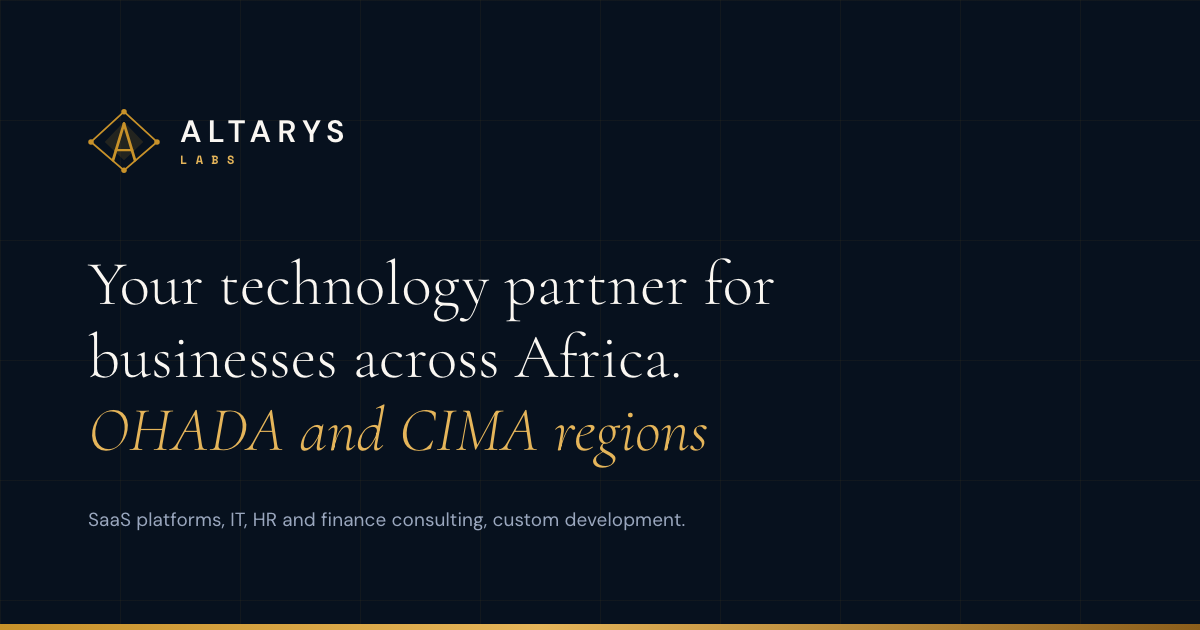
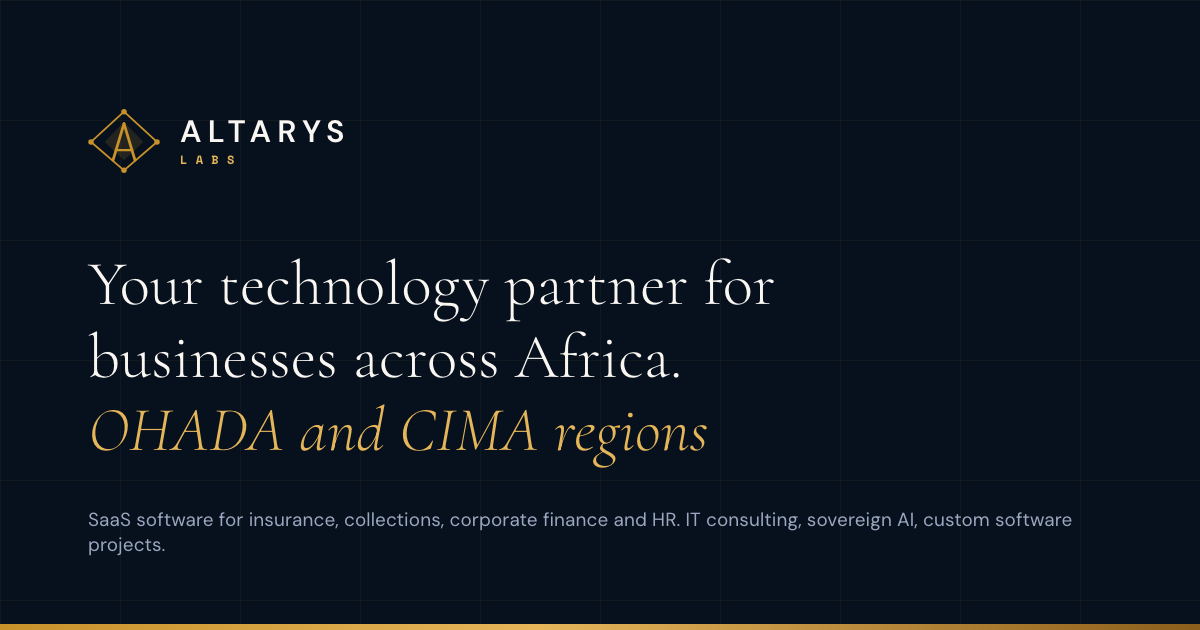
fix(i18n): traiter les constats de la ronde 1 (I18N-FIX-002)
Le commentaire d'en-tete de `en.ts` a livre deux versions fausses, les deux
fois dans la clause qui enumere les pages developpant OHADA et CIMA. La
troisieme version n'enumere plus rien : elle enonce la regle, les surfaces
exemptees pour la place, et la commande qui mesure la couverture. Aucun
build ne lit un commentaire, donc une affirmation de couverture pourrit
sans surveillance ; retirer l'enumeration retire la classe.

Mesure sur `dist/en` au HEAD, `<head>` separe du corps : quatre pages
developpent la forme maison dans leur corps, PCS la porte trois fois dans
son `<head>` et zero fois dans son corps. La recette prescrite couvre
desormais les deux moities de la formule, le grep a un marqueur ayant
manque PCS d'un cote et la fiche RH de l'autre.

Corrige aussi les huit constats importants : la promesse generale de la
ligne 10, la liste d'exemptions qui omettait `pageTagline.*` et les
`meta.*.description`, le compte de 26 pages anglaises la ou il y en a 13
dans D075 et dans le work item, et la citation de D075 par SITE-FIX-009,
qu'elle n'autorisait pas.

Deux taglines retrouvent le mot que la ronde precedente avait perdu.
`pageTagline.productsPcs` elargit au recouvrement d'echeances de credit
sur decision du fondateur : la navigation anglaise devance donc la fiche
PCS, et PAGE-003 refermera l'ecart. `home.ogSubtitle` est reecrit dans les
deux langues et les deux vignettes sont regenerees par `bin/og_images`.
[…]

Changed region(s): [[0.0617, 0.8143, 0.8942, 0.8746]]

diff --git a/src/i18n/en.ts b/src/i18n/en.ts
@@ -7,20 +7,29 @@ import type { Dictionary } from './fr';
  * audiences that the French version does not: anglophone African markets,
  * international investors and partners, and institutional funders and NGOs.
  *
- * Practical consequences, applied consistently across every English string:
+ * Practical consequences:
  *  - OHADA and CIMA are expanded in body copy wherever a page argues the
  *    regulatory point, because the acronyms carry no meaning for a reader in
  *    Accra, Lagos or Nairobi. The house form is "the OHADA business-law zone
- *    and the CIMA insurance zone". It is used today on the home page, the
- *    products hub, the HR and PCS product pages, and About.
- *    The bare acronyms are used where the expansion does not fit: `meta.*.title`
- *    values, which search engines truncate around 60 characters; page `h1`s,
- *    where it would wrap to a third line; and `footer.tagline`, which sits in a
- *    280px column.
- *    Known gap, measured rather than assumed: the three services pages, Contact
- *    and the two legal pages carry the bare acronyms in their footer and expand
- *    them nowhere. Verify with a grep for "business-law zone" over `dist/en`
- *    before claiming otherwise.
+ *    and the CIMA insurance zone".
+ *    Some surfaces keep the bare acronyms, for room rather than by preference,
+ *    and the constraint is structural in each case: `meta.*.title`, truncated by
+ *    search engines around 60 characters; page `h1`s, where the expansion wraps
+ *    to a third line; `footer.tagline` and `pageTagline.*`, both laid out in a
+ *    narrow column; and `meta.*.description`, where it crowds out the sentence
+ *    that earns the click.
+ *    NOT EVERY PAGE EXPANDS THEM, AND THIS COMMENT DOES NOT SAY WHICH DO. Any
+ *    statement of coverage decays the next time a page gains or loses the
+ *    phrase, and no build step reads a comment. Two earlier versions of these
+ *    lines asserted a coverage and both shipped false. Measure instead:
+ *      grep -rl "business-law zone" dist/en --include=index.html
+ *      grep -rl "insurance zone"    dist/en --include=index.html
+ *    Run BOTH. The two halves do not travel together: when this paragraph was
+ *    written the first returned the HR page and not PCS, and the second
+ *    returned PCS and not HR. A single-marker grep is what let the false claim
+ *    through twice. It also matches the `<head>`, so exclude it before
+ *    concluding anything about body copy. Per D075, the sweep itself is
+ *    verified key by key against `fr.ts`, never by grepping markers.
  *  - Emphasis shifts to what travels across borders (offline-first design,
  *    multi-country deployment, configurable compliance) rather than to
  *    Ivorian-specific schemes such as CNPS or ITS.
@@ -75,8 +84,8 @@ export const en: Dictionary = {
     home: '',
     products: '',
     productsHr: 'OHADA-compliant HR and payroll SaaS',
-    productsFinance: 'Budgeting aligned with the SYSCOHADA standard',
-    productsPcs: 'Premium collection in the CIMA zone',
+    productsFinance: 'Budgeting aligned with the SYSCOHADA accounting standard',
+    productsPcs: 'Premium and instalment collection in the CIMA zone',
     services: '',
     servicesConsulting: 'Information systems, HR and financial management',
     servicesDev: 'Web and mobile applications, and systems integration',
@@ -124,7 +133,8 @@ export const en: Dictionary = {
     heroSecondary: 'Explore our products',
 
     /* Voir le commentaire de `ogSubtitle` dans fr.ts. */
-    ogSubtitle: 'SaaS platforms, IT, HR and finance consulting, custom development.',
+    ogSubtitle:
+      'SaaS software for insurance, collections, corporate finance and HR. IT consulting, sovereign AI, custom software projects.',
 
     productsLabel: 'Our products',
     productsTitle: 'Three SaaS suites designed for OHADA and CIMA regulatory realities',

diff --git a/src/i18n/fr.ts b/src/i18n/fr.ts
@@ -114,7 +114,8 @@ export const fr = {
        Il vit ici et non dans le gabarit du script pour la meme raison que le
        titre : une vignette ne doit pas pouvoir affirmer ce que le site ne dit
        pas. C'est le defaut trouve par la ronde 2 d'UI-004. Voir D101. */
-    ogSubtitle: 'Suites SaaS, conseil IT, RH et Finance, développement sur mesure.',
+    ogSubtitle:
+      'Logiciels SaaS en Assurance, Recouvrement, Corporate Finance et RH, Conseil IT, IA souveraine, projets logiciels sur mesure',
 
     productsLabel: 'Nos produits',
     productsTitle: "Trois suites SaaS pensées pour l'OHADA et le CIMA",

diff --git a/docs/DECISIONS.md b/docs/DECISIONS.md
@@ -91,7 +91,7 @@ Nomenclature, work item types and prefixes: see `docs/AI_Development_Workflow.md
 | D072 | 2026-08-07 | I18N-FIX-001 | `meta.home.*` is split deliberately: the two **titles** carry the OHADA and CIMA zones, the two **descriptions** carry the founder's own new formulation, which names "Afrique de l'Ouest et Centrale" in French and "West and Central Africa" in English. FR title becomes `ALTARYS LABS \| Partenaire technologique des entreprises OHADA et CIMA`, EN title `ALTARYS LABS \| Technology partner in the OHADA and CIMA regions`. FR description is the founder's sentence verbatim, corrected for a duplicated "les" and for the missing accent on the capital of "Éditeur"; EN is its re-adaptation | Founder ruling of 2026-08-07, taken with the consequence stated in front of him: the home page now names the regulatory zones in its title and the geographic region in its description. **That asymmetry is intentional and must not be "fixed".** The zones and the region overlap heavily but are not the same territory, and the founder judged the description the right place to speak the geography a donor or an investor recognises, the title the right place to speak the regulatory perimeter that qualifies the offer. The R1 review had blocked on this pair as one defect; it is resolved as two deliberate registers | Aligning both on OHADA and CIMA, which the reviewer recommended and which the founder declined for the descriptions; naming both zone and region in the same sentence, rejected as pushing the description past 220 characters when 155 already display |
 | D073 | 2026-08-07 | I18N-FIX-001 | `footer.tagline` states what the company **is** rather than repeating what the hero promises: `Éditeur de logiciels et expertise conseil, zones OHADA et CIMA.` and `Software publisher and consulting practice, OHADA and CIMA regions.` This closes D063 | The obvious correction, copying the hero into the footer, removes the contradiction and creates a duplicate: the same sentence twice per page, 26 times. A footer sits above the legal line and is where a reader looks for what the entity is, so naming the two businesses, publishing and consulting, adds information the hero and the four link columns never give. "expertise conseil" rather than "cabinet de conseil" because the site already uses that phrasing on the home page | Mirroring the hero, rejected as trading a contradiction for a repetition; a reformulated positioning line, rejected as saying the same thing as the hero in different words, which is the same waste one degree less visible |
 | D074 | 2026-08-07 | D042 (annotated) | `home.heroTitle` keeps its capital in "les entreprises Africaines". The spelling is **known, deliberate and must not be corrected** by any future session or review round | French grammar puts a lower-case letter on the adjective ("les entreprises africaines", exactly as "les entreprises françaises") and reserves the capital for the noun ("les Africains", "les Français"). The rule was put to the founder with that parallel spelled out, and he chose to keep the capital as deliberate emphasis. This row exists because the string sits in the home page `h1`, the most read line of the site: without it, every competent reviewer will re-open the point, and one of them will eventually "fix" it. D042 is annotated rather than rewritten, per the standing rule | Writing `africaines` in lower case, which is what the grammar prescribes and what the R1 review recommended; leaving the capital unrecorded, which guarantees the debate is re-run |
-| D075 | 2026-08-07 | I18N-FIX-001 | The residual-string defect is treated as **one family swept exhaustively**, not as the blockers a review raised: **fourteen dictionary values, one stale component comment and the `en.ts` header comment**, counted from the diff rather than asserted. **The sweep is verified by comparing the two dictionaries key by key, not by grepping markers.** Round 1 was swept with a four-marker grep (`West and Central Africa`, `African markets`, the old positioning nouns, the old service spelling); round 2 found that grep had walked straight past `Central and West Africa`, the same words in the other order, live in the header dropdown of all 26 English pages, and past two siblings beside it. A marker list only ever finds the phrasings its author already thought of. The Open Graph thumbnails and the `REVIEWER.md` contradictions leave for `SEO-FIX-001` and `SITE-FIX-007` | `I18N-001` fixed the heroes and stopped at the footer, so the R1 review found the same sentence still alive in `meta.home.*` and burnt into two PNGs. Fixing only what a review listed reproduces the defect one level further out, which is exactly how this one survived. The two follow-ups are split off because they are different materials, not lower priority: a PNG needs regenerating against the final copy, and `REVIEWER.md` is tooling whose defect (it mandates "Services first, Products second" against `CLAUDE.md`) makes reviewers raise false blockers on correct pages | Fixing only the two blockers the review raised; folding the thumbnails into this item, rejected since they must carry copy this same PR is still settling |
+| D075 | 2026-08-07 | I18N-FIX-001 | The residual-string defect is treated as **one family swept exhaustively**, not as the blockers a review raised: **fourteen dictionary values, one stale component comment and the `en.ts` header comment**, counted from the diff rather than asserted. **The sweep is verified by comparing the two dictionaries key by key, not by grepping markers.** Round 1 was swept with a four-marker grep (`West and Central Africa`, `African markets`, the old positioning nouns, the old service spelling); round 2 found that grep had walked straight past `Central and West Africa`, the same words in the other order, live in the header dropdown of all **13** English pages, and past two siblings beside it. A marker list only ever finds the phrasings its author already thought of. The Open Graph thumbnails and the `REVIEWER.md` contradictions leave for `SEO-FIX-001` and `SITE-FIX-007` | `I18N-001` fixed the heroes and stopped at the footer, so the R1 review found the same sentence still alive in `meta.home.*` and burnt into two PNGs. Fixing only what a review listed reproduces the defect one level further out, which is exactly how this one survived. The two follow-ups are split off because they are different materials, not lower priority: a PNG needs regenerating against the final copy, and `REVIEWER.md` is tooling whose defect (it mandates "Services first, Products second" against `CLAUDE.md`) makes reviewers raise false blockers on correct pages | Fixing only the two blockers the review raised; folding the thumbnails into this item, rejected since they must carry copy this same PR is still settling |
 | D076 | 2026-08-07 | UI-003 | The site publishes contact details for the first time: `contact@altaryslabs.com` and `+225 07 20 52 22 69`. Both live in `src/i18n/config.ts` as `CONTACT_EMAIL` and `CONTACT_PHONE`, not in the dictionaries, and the `tel:` href is derived from the number by stripping spaces | They are the same string in both languages, so putting them in `fr.ts` and `en.ts` would create two copies of one fact that can drift. This is the reasoning D027 already applied to the RCCM, which is why the About page composes its legal line from `footer` rather than owning a second copy. Only the labels that introduce them are translated. Deriving the `tel:` means the dialled number cannot contradict the displayed one | Two dictionary entries per value, the obvious route, rejected on D027's precedent; a separate `phoneHref` key, which is the same drift risk one level down |
 | D077 | 2026-08-07 | UI-003 | The footer's fourth column becomes Contact (email, phone, link to the form) and About moves down into Legal. `footer.columnCompany` is retired, and the Contact column is rendered outside the `{ title, keys: PageKey[] }` abstraction the other columns share | The updated `Footer.dc.html` reorganises the columns this way, and it is also the arrangement that puts a reachable address on all 26 pages rather than only on the page a visitor reaches after deciding to make contact. The abstraction genuinely does not fit: the column mixes two external protocols, `mailto:` and `tel:`, with one internal route, and forcing them into a `PageKey` list would have meant inventing fake routes | Keeping About in its own column and adding Contact as a sixth, rejected because the grid is five tracks and the handoff does not widen it; extending the `keys` abstraction with a discriminated union, more machinery than one bespoke column is worth |
 | D078 | 2026-08-07 | SITE-FIX-002 | `bin/reviewer` and `bin/autonomous_reviewer` refuse to start when **the three files that seed a round** (`.claude/personalities/REVIEWER.md`, `.claude/reviewer-append.txt`, `.claude/commands/review.md`) are behind `origin/refonte-multipages`, through a single shared `bin/lib/fraicheur.sh` sourced by both rather than a copy in each. **This supersedes the alternative D058 named as rejected**, "adding a freshness check inside the launcher scripts" | Both launchers seed the round from those files as they exist in the tree they run from, with no freshness check. Round 3 of this item measured its own tree 20 commits behind and was therefore seeded with a `REVIEWER.md` predating SITE-FIX-001: it received the `--effort high` mandate D033 had retired and the instruction to compare renders against the frozen `design_handoff_altaryslabs_refonte/` folder that D037 and `CLAUDE.md` forbid, having already shipped an obsolete About page once. Same class as D052: a procedure that silently does something other than what it announces. D058's reason for rejecting the check no longer holds, because D058 itself moved the invocation into the item's worktree: the check now has a well-defined tree to measure, which it did not have while the main checkout was the default entry point. The comparison is restricted to those three paths because an item branch is behind the integration branch by construction, and stopping on any gap at all forbade reviewing every open PR of the repository, including the one delivering the guard: round 6 measured this very branch 4 commits behind and `exit=1`. **The `/review <ID>` path inside an existing session is not covered**, since no shell runs there; it stays an attended path where the founder can see what was seeded | Leaving it to operator discipline, which D052 names as the wrong answer for this class; a dedicated item, rejected by the founder since the defect was active and touched tooling the PR already edited; duplicating the guard inline in both launchers; comparing whole-tree commit counts, which is what shipped first and which blocked every round |
@@ -131,9 +131,21 @@ Nomenclature, work item types and prefixes: see `docs/AI_Development_Workflow.md
 | D112 | 2026-08-07 | FORM-FIX-001 | **A second submission sent before the redirect is cancelled**, by a flag and `preventDefault` on that second submission alone, with the submit button disabled afterwards as visual feedback and never as the mechanism. A `pageshow` listener re-arms both on a `persisted` restore | The Turnstile token is single use, so two POSTs fired before navigation, which one double click produces, give a first submission that succeeds and a second that Cloudflare refuses as `timeout-or-duplicate`. The row is written, the email is sent, and the visitor reads an error panel: the page states the opposite of what happened, on the site's only conversion point, to someone who has just spent minutes writing about a tender. The window is short and the severity low, but a false message costs more than a slow one. **Cancelling the second rather than disabling the button** is what keeps the first submission untouched, which is the hard constraint: a button disabled inside its own submit handler is a mechanism whose behaviour varies, while a flag read at the top of the handler is unambiguous. The `pageshow` guard closes the trap the fix itself opens: the back button can restore the page from the bfcache with the button still disabled, leaving a form that can no longer be sent, which is worse than the defect being corrected. The error return needs nothing, being a fresh navigation whose static markup never carries `disabled`. **Not the duplicate-submission detection** `FORM-001` puts out of scope: nothing is de-duplicated server side, the page merely stops claiming a failure that did not happen | Disabling the button alone, rejected because it makes the protection depend on browser behaviour inside the event that must not be disturbed; an idempotency key server side, which is the real duplicate detection and a far larger item; doing nothing, given the short window, rejected because the visitor is told their request failed when it succeeded and the likely reaction is to send it again or to give up |
 | D113 | 2026-08-07 | FORM-FIX-001 | **`SITE-FIX-012` is opened** to carry what this item defers: the `docs/kb/` and review-corpus language frontier, the incomplete rule D106 left in D100, the three non-blocking suggestions of `FORM-001` round 1, and the two latent defects the last round confirmed, the French colon spacing in three English `aria-label`s and the unused off-palette `--ok` and `--err` tokens | The repository rule is that an out-of-scope defect materialises as a work item **plus** a D-row, and that the follow-up adds to the block rather than replacing it. This item broke that rule twice: `FORM-CHR-001` was named in a work item and a PR body while existing nowhere, and its replacement was deferred to a `SITE-FIX-011` that had no fiche, no branch and no D-row either. Both were abandonments wearing the costume of a follow-up, and both were caught by review. `SITE-FIX-011` is held by another session, hence `012`. The two latent defects are grouped here on the founder's call rather than fixed in place, because they change rendering on every `/en/` page and on the CSS of every page, which would take a documentary PR out of its own scope and force a full visual pass | Fixing the two latent defects inside this PR, rejected for the scope widening; leaving the five deferred points unowned, which is the abandonment the reviews blocked twice |
 | D114 | 2026-08-07 | FORM-FIX-001 | **`SITE-FIX-013` is opened** for the structural cause behind the lost `FORM-001` review: step 11 of `.claude/commands/review.md` pushes the round's record onto the work item's branch, and the same file forbids committing one on `refonte-multipages`, so any round that runs **after** its PR is merged writes its record onto a dead branch and it never reaches the integration branch | The instance was repaired by cherry-picking `62a2148`, but the cause is a procedure rather than an accident, and it destroys the only durable record a round leaves behind. It has already fired once, silently: `docs/reviews/FORM-001-review.md` existed solely on `feat/formulaire-contact` and the PR link 404ed for anyone who followed it. The repository treats the review file as the sole durable record of a round, so losing one empties the review loop of its memory, and nothing in the current procedure warns the reviewer. Naming the item is itself the point: the previous round's deferral of this same cause carried **no identifier at all**, which the reviewer correctly called the degree zero of follow-up, since nothing can retrieve it | Repairing the instance and saying nothing, which is what leaves the next round to lose its own record; folding the procedure change into this PR, rejected because it edits the reviewer's own instructions from inside an item the reviewer is judging |
+| D119 | 2026-08-08 | I18N-FIX-002 | The `en.ts` header comment **states the rule and the way to measure it, and enumerates nothing**. It no longer says which English pages expand OHADA and CIMA, nor how many do not. It names the surfaces exempt for room, whose constraints are structural, and prescribes a grep on **both halves** of the house form with the `<head>` excluded. D075's count of "all 26 English pages" is corrected in place to **13**, 26 being the bilingual total | Two versions of this comment shipped false, both in the same clause, and both were written specifically to stop the previous one lying. Version 1 claimed every page expanded the acronyms and was wrong on nine of thirteen; version 2 named PCS among the pages that expand, when PCS carries the phrase three times in its `<head>` and zero times in its body. The defect is not the wording, it is the form: **no build step reads a comment**, so a coverage claim decays unwatched and the next reader inherits it as fact. Removing the enumeration removes the class. The measurement that settles it also demonstrates why the old recipe failed: on 2026-08-08 `grep -rl "business-law zone" dist/en` returned the HR page and not PCS, and `grep -rl "insurance zone" dist/en` returned PCS and not HR. A single marker only ever finds the phrasing its author had in mind, which is D075's own rule applied to D075's own recipe | A third corrected enumeration, measured and quoted, rejected because it reinstates the exact mechanism that produced both failures; expanding the acronyms on the nine remaining pages so the general rule becomes true, rejected as a copy change on nine English pages that needs its own founder ruling |
+| D120 | 2026-08-08 | I18N-FIX-002 | `SITE-FIX-009`, the `bin/review_shots` defect that reports failed captures as successes, gets **its own decision row**. It cited D075 until now | D075 is the residual-string sweep. Its scope sentence names exactly two follow-ups, `SEO-FIX-001` and `SITE-FIX-007`, and it mentions neither `bin/review_shots` nor `errorText`. No row therefore authorised `SITE-FIX-009`, and a session following the citation landed on a decision unrelated to the tooling change it was about to make. D108 requires a follow-up item to quote the reviewer's defining sentence; it cannot also borrow an unrelated row's authority | Extending D075 to name a third follow-up, rejected because D075 is merged and its scope sentence is what two later items are checked against; leaving the citation, which is how the defect was found |
+| D121 | 2026-08-08 | I18N-FIX-002 | A review file is named after **the item under review**, always, so a `-FIX-` item opens its own file and one continuous thread spans several. In exchange, **a review file that continues an earlier item must open with a `Continuity` line naming the previous rounds and their files**, before its first round section. `REVIEWER.md` and `.claude/commands/review.md` both carry the rule; `I18N-FIX-001-review.md` gains the line retroactively | Two conventions coexisted: rounds 1 and 2 of this thread live in `I18N-001-review.md` while round 3 opened `I18N-FIX-001-review.md`, and the reviewer correctly refused to let both stand. Deriving the name from the ID is the half a tool can enforce and a reviewer cannot get wrong; the harm was never the filename but the reader who opens a `-FIX-` file, finds no history and concludes there is none. A pointer costs one line and fixes exactly that. Consolidating instead would have required every reviewer to guess which item a thread started from, a judgement no rule can make mechanical | Moving all rounds into the origin item's file, rejected on both counts above and because it relocates a record already written, which D053 forbids in spirit; ratifying the current naming with no pointer, which leaves the reader with nothing |
+| D122 | 2026-08-08 | I18N-FIX-002 | `home.ogSubtitle` is rewritten in both languages, founder's own words in French: `Logiciels SaaS en Assurance, Recouvrement, Corporate Finance et RH, Conseil IT, IA souveraine, projets logiciels sur mesure`. English re-adapts rather than translates, and uses **`collections`** in the plural | The value `UI-FIX-003` had just created carried two defects nobody had looked for, because the key was days old: it said "Suites SaaS", which the founder rules is meaningless French in this context, and "conseil IT, RH et Finance", the exact service spelling D044 retired everywhere else. It survived precisely where it is hardest to see, burnt into the share preview rather than rendered on a page. D101 is what makes the correction cheap: the images read their copy from the dictionaries, so one key and a re-run of `bin/og_images` fixes both PNGs. `collections` is plural because English names the function that way and it covers insurance premiums and credit instalments alike, which is what the French `Recouvrement` now means here | Keeping the singular `collection`, which reads in English as a collection of objects; leaving the value to `PAGE-003`, rejected because the stale spelling is live on every share today |
+| D123 | 2026-08-08 | I18N-FIX-002 | `pageTagline.productsPcs` becomes **`Premium and instalment collection in the CIMA zone`**. Founder call, against the recommendation to ship the review's `Insurance premium collection in the CIMA zone` and defer the widening. **`PAGE-003` is opened** to carry the widening across every other surface | PCS now covers credit instalment collection for microfinance and lending institutions, not only insurance premiums, and the founder chose to say so in the navigation immediately. The recorded consequence, which is the reason this row exists: **the English navigation now announces a business the PCS page does not yet describe**, and `CLAUDE.md` still defines PCS as premium follow-up for CIMA insurers and brokers. A future session or review round will read that gap as a defect in the tagline and "correct" it backwards. It is not a defect; it is a deliberate step ahead, and `PAGE-003` closes it. The review's own finding stands either way: `Premium collection` alone reads in English as a surcharge or an upmarket range, so the domain had disappeared from the English navigation entirely | The review's `Insurance premium collection in the CIMA zone`, which is inside validated positioning but narrows PCS to insurance the day it stopped being insurance-only; leaving `Premium collection in the CIMA zone` and declining the finding, which keeps a genuinely misleading English phrase live |
 
 D033 to D035 are reserved by `SITE-FIX-001` on branch `fix/outillage-reviewer`,
 not yet merged. The gap is deliberate, not a missing entry.
+
+D115 to D118 are reserved by `SITE-FIX-011` on branch
+`fix/conventions-variables-et-perimetre-de-revue`, not yet merged. `I18N-FIX-002`
+reserved D115 to D119 at plan time, when the highest number across every branch
+was D114, and found D118 taken a few hours later, mid-session. The gap is
+deliberate. It is also the second illustration in three days of the rule D109
+states: **the survey goes stale, so re-run it immediately before committing.**
 
 D108 and D109 belonged to `SITE-FIX-010` and **landed on the integration branch
 through PR #37** while `FORM-FIX-001` was still open, which is why D110 to D114

diff --git a/docs/work-items/PAGE-003.md b/docs/work-items/PAGE-003.md
@@ -1,0 +1,82 @@
+# PAGE-003 - PCS covers credit instalment collection, and only the navigation says so
+
+**Type** STORY | **Status** OPEN, not started | **Branch to create** `feat/pcs-recouvrement-elargi`
+**Base** `refonte-multipages`
+
+**Decision** D123 in `docs/DECISIONS.md`. Born from round 1 of
+`docs/reviews/I18N-FIX-001-review.md`, finding 6, once the founder widened the
+product's scope in the same exchange.
+
+## The gap
+
+The founder stated during `I18N-FIX-002` that Papillon Collection Solution now
+collects **both insurance premiums and credit instalments, for microfinance
+institutions and lending organisations**, not insurance alone.
+
+He chose to say so immediately in the English navigation. `I18N-FIX-002`
+therefore shipped:
+
+| Key | Value |
+|---|---|
+| `pageTagline.productsPcs` | `Premium and instalment collection in the CIMA zone` |
+
+**Nothing else moved.** Every other surface still describes an insurance-only
+product:
+
+- `CLAUDE.md`, Product Lines: "contract renewal and premium follow-up for
+  CIMA-zone insurers and brokers"
+- the PCS product page, both languages
+- the PCS card on the products hub, both languages
+- `meta.productsPcs.description`, both languages
+- `cards.products.productsPcs.text`, both languages
+- the home page product block
+
+The English dropdown consequently announces a business the page it points to
+does not describe. That is deliberate and recorded, not an oversight: see D123.
+**This item closes it.**
+
+## Why it is a STORY and not a FIX
+
+It is not a defect being repaired. It is a positioning change that has to be
+carried consistently across two languages and every surface naming the product,
+and every new sentence needs the founder's approval before it ships. That is
+editorial work with a review round, not a correction.
+
+## What needs a founder ruling before any string is written
+
+1. **How the two businesses are named together**, in French and in English.
+   `Recouvrement` covers both in French; English needs a decision between
+   `collections`, which D122 already chose for `home.ogSubtitle`, and a longer
+   form naming premiums and instalments separately as the tagline does.
+2. **Whether the CIMA zone is still the right frame.** CIMA is the insurance
+   regulator. Microfinance and lending institutions are not CIMA entities, so a
+   product page framed entirely on CIMA may now under-describe the market. This
+   is the strategic question underneath the copy and it is the founder's alone.
+3. **Whether the audience sentence changes**, which today reads "insurers and
+   brokers" everywhere.
+
+Do not derive any of the three. Ask.
+
+## Scope
+
+- `CLAUDE.md`, the Product Lines section
+- `src/i18n/fr.ts` and `src/i18n/en.ts`: every value naming PCS
+- the PCS page components, the products hub card, the home product block
+- `meta.productsPcs.*` in both languages
+
+## Out of scope
+
+- `pageTagline.productsPcs`, already shipped by `I18N-FIX-002`. Verify it agrees
+  with whatever this item settles; do not rewrite it without a reason.
+- The external link to papillon-collection.com and the teaser format. PCS stays
+  a teaser page with one external link.
+- `availability.pcs`, the single availability constant. Untouched.
+
+## Acceptance criteria
+
+1. No surface describes PCS as insurance-only once the founder has ruled on the
+   three questions above.
+2. The English navigation no longer promises more than the page it points to.
+3. `CLAUDE.md` and the dictionaries agree on what the product does.
+4. `npm run build` and `npm run check` green, FR and EN parity holds.
+5. No price, no client name, no exact date, no invented figure.

diff --git a/docs/work-items/UI-FIX-004.md b/docs/work-items/UI-FIX-004.md
@@ -1,0 +1,66 @@
+# UI-FIX-004 - French fragments render in `lang="en"` legal pages without an inline `lang`
+
+**Type** FIX | **Status** OPEN, not started | **Branch to create** `fix/lang-fragments-legaux`
+**Base** `refonte-multipages`
+
+Raised as a **suggestion**, not a blocker, by round 1 of
+`docs/reviews/I18N-FIX-001-review.md`. Deferred there with a reason; this item
+carries it.
+
+## The reviewer's defining sentence
+
+> `dist/en/legal-notice`, `dist/en/privacy` - Les fragments francais
+> `Societe par Actions Simplifiee Unipersonnelle` et
+> `Derriere la pharmacie Redemption` sont rendus dans une page `lang="en"` sans
+> `lang="fr"` inline. WCAG 3.1.2 exempte les noms propres et les termes
+> techniques, et une forme juridique ivoirienne comme une adresse tombent
+> plausiblement sous l'exemption ; c'est pour cela que ce n'est pas un blocage.
+
+## Why it was not fixed in `I18N-FIX-002`
+
+Three reasons, all practical.
+
+It is a **markup** change, not a dictionary change, on pages whose text D032
+locks. `I18N-FIX-002` touched no component and no page; adding inline `lang`
+attributes to the legal pages would have widened it into surfaces the item
+declared out of scope.
+
+The **exemption is arguable both ways**. WCAG 3.1.2 exempts proper names and
+technical terms. An Ivorian legal form and a street address plausibly qualify,
+which is exactly why the reviewer filed it as a suggestion. Ruling on it is a
+judgement, not a repair.
+
+And it deserves **its own visual round**: the fix touches four public pages, two
+of which are the pages a lawyer is still due to review under D022.
+
+## What needs deciding
+
+**Whether the exemption applies here**, once, for all such fragments. Then apply
+that ruling uniformly rather than page by page. A screen reader switching voice
+mid-address is worse than not switching at all if the rule is applied
+inconsistently.
+
+Candidate fragments, to be enumerated by measurement rather than from this list:
+
+- `Societe par Actions Simplifiee Unipersonnelle`, the legal form
+- `Derriere la pharmacie Redemption`, part of the address
+- the RCCM number's `CI-ABJ` prefix, if it is read as text rather than a code
+
+## Scope
+
+`src/components/LegalPage.astro` and whatever renders the legal notice and the
+privacy policy in English, plus the corresponding dictionary values if the fix
+needs a markup-bearing key.
+
+## Out of scope
+
+**The legal texts themselves are LOCKED by D032.** This item changes markup, never
+a sentence. If the fix appears to require rewording, stop and escalate.
+
+## Acceptance criteria
+
+1. A single ruling on the WCAG 3.1.2 exemption is recorded as a D-row, and applied
+   uniformly to every French fragment on an English page.
+2. No legal sentence changes in either language.
+3. `npm run build` and `npm run check` green.
+4. The four legal pages render unchanged at 360, 768 and 1440 px.

diff --git a/docs/work-items/I18N-FIX-002.md b/docs/work-items/I18N-FIX-002.md
@@ -1,10 +1,35 @@
 # I18N-FIX-002 - Close the round 1 findings of the `I18N-FIX-001` review
 
-**Type** FIX | **Status** OPEN, not started | **Branch** `fix/chaines-residuelles` (already exists, carries PR #31)
+**Type** FIX | **Status** DELIVERED 2026-08-08 | **Branch** `fix/chaines-residuelles` (carries PR #31)
 **Base** `refonte-multipages`
+
+**Decisions** D119 to D123 in `docs/DECISIONS.md`.
 
 This document is a **session handoff**. It is written so that a fresh session can
 act without reading the conversation that produced it. Everything needed is here.
+
+## What the delivering session actually found, 2026-08-08
+
+Three corrections to the handoff below, each the result of the integration branch
+moving between the day this was written and the day it was executed.
+
+1. **Blocker 3 was already resolved.** `UI-FIX-003` landed `bin/og_images`
+   (D101) through PR #35 and `UI-005` is marked DONE. The two thumbnails are
+   regenerated from `home.heroTitle`, `home.heroEmphasis` and `home.ogSubtitle`
+   in the dictionaries, so the blocker died on merging rather than on work.
+   **The founder's ruling instead landed on `home.ogSubtitle` itself**, which
+   `UI-FIX-003` had just created carrying "Suites SaaS" and the service spelling
+   D044 retired. See D122.
+2. **`D-max was D114 at plan time and D118 four hours later**, taken by
+   `SITE-FIX-011` on another branch. The rows below were renumbered mid-session
+   from D115-D119 to D119-D123. Trap 1 fired exactly as written.
+3. **`SITE-FIX-010` and `UI-FIX-003` were free at plan time and taken at
+   execution time.** The follow-ups became `PAGE-003` and `UI-FIX-004`.
+
+**Finding 6 was answered against the review**, on a founder ruling that widened
+the product: PCS now collects credit instalments as well as insurance premiums,
+so the tagline reads `Premium and instalment collection in the CIMA zone` and
+`PAGE-003` carries the widening to every other surface. See D123.
 
 ## Where things stand
 

diff --git a/.claude/commands/review.md b/.claude/commands/review.md
@@ -98,6 +98,7 @@ If the prefix is not in this table, STOP and flag: a new prefix is added to `doc
 10. Write the review to `docs/reviews/<ID>-review.md` **where the round is running**, which is the review worktree when step 3 opened one. Step 11 is what puts it on the work item's branch:
     - If the file already exists from a previous round, **append** a new `## Round N` section. Never overwrite.
     - Determine N by counting existing `## Round` headings and adding 1.
+    - **If you are creating the file and the item continues an earlier one** (any `<PFX>-FIX-NNN` closing the findings of a `<PFX>-NNN`, or of a lower `-FIX-`), open it with a `**Continuity.**` line naming the previous rounds and the files holding them, before `## Round 1`. Find them with `ls docs/reviews/` plus the "Where things stand" section of the item doc. If the thread genuinely starts here, write one sentence saying so. Never leave the question open: a reader who finds an empty history concludes there is none. See D121.
     - Use the round format from `.claude/personalities/REVIEWER.md`.
     - Delegate the write itself to the `file-writer` subagent once the content is final, per the personality's token-efficiency rule.
 11. Commit the review file, message in French, and push it explicitly onto the work item's branch with a refspec. The review worktree sits on its own `review-<id-lowercase>` branch, and `git worktree add -b ... origin/<branch>` **does** configure an upstream for it, `origin/<branch>` itself. That upstream simply does not carry the same name as the local branch, so under the default `push.default=simple` a bare `git push` is refused outright ("the upstream branch of your current branch does not match the name of your current branch"), and under another `push.default` it could push somewhere you did not intend. Naming the destination removes the question:

diff --git a/docs/BACKLOG.md b/docs/BACKLOG.md
@@ -34,19 +34,21 @@ been merged into it. The rebuild lives on `refonte-multipages`.
 | `I18N-001` | The handoff copy deltas: both heroes, the consulting service name, the English leadership role |
 | `PAGE-002` | Contact pages FR and EN, inert form, three states, `PageScaffold` deleted |
 | `I18N-FIX-001` | The residual-string sweep: fourteen values still carrying the pre-handoff positioning, plus two stale comments |
+| `SEO-FIX-001` | The two Open Graph thumbnails, **delivered by `UI-FIX-003`** rather than under its own branch: `bin/og_images` regenerates them from the dictionaries, so the class is closed and not the instance. See D101 |
 
 ## Open, in dependency order
 
 | Order | Item | Blocked by | Doc |
 |---|---|---|---|
-| 0 | `I18N-FIX-002` | nothing, PR #31 is open | `docs/work-items/I18N-FIX-002.md` |
+| 0 | `I18N-FIX-002` | delivered, PR #31 awaiting review | `docs/work-items/I18N-FIX-002.md` |
 | 0 | `SITE-FIX-002` | nothing, and see below | `docs/work-items/SITE-FIX-002.md` |
 | 0 | `SITE-CHR-002` | nothing | `docs/work-items/SITE-CHR-002.md` |
 | 0 | `SITE-FIX-007` | nothing | `docs/work-items/SITE-FIX-007.md` |
 | 0 | `SITE-FIX-008` | nothing | `docs/work-items/SITE-FIX-008.md` |
 | 0 | `SITE-FIX-009` | nothing | `docs/work-items/SITE-FIX-009.md` |
 | 1 | `UI-FIX-001` | nothing | `docs/work-items/UI-FIX-001.md` |
-| 1 | `SEO-FIX-001` | `I18N-FIX-001`, merged | `docs/work-items/SEO-FIX-001.md` |
+| 1 | `PAGE-003` | three founder rulings, listed in the doc | `docs/work-items/PAGE-003.md` |
+| 1 | `UI-FIX-004` | one founder ruling on the WCAG 3.1.2 exemption | `docs/work-items/UI-FIX-004.md` |
 | 3 | `UI-FIX-002` | nothing, `UI-002` has merged | `docs/work-items/UI-FIX-002.md` |
 | 3 | `UI-REF-001` | nothing, `UI-002` has merged | `docs/work-items/UI-REF-001.md` |
 | 4 | `FORM-001` | `PAGE-002` | `docs/work-items/FORM-001.md` |

diff --git a/docs/work-items/I18N-FIX-001.md b/docs/work-items/I18N-FIX-001.md
@@ -46,7 +46,7 @@ wrong number here; the figure below is `git diff` over `src/i18n/`.
 | `pageTagline.productsPcs` | `Premium collection in the CIMA zone` |
 
 The last five come from round 2. The three `pageTagline` values render in the
-header dropdown of all 26 English pages and said `African compliance`,
+header dropdown of all 13 English pages and said `African compliance`,
 `West African accounting standards` and `across Central and West Africa` where
 French named OHADA, SYSCOHADA and CIMA. `home.productsTitle` had to move with
 `productsPage.title`: correcting the hub alone made the home page and the hub
@@ -59,11 +59,15 @@ D044 retired, the last surviving occurrence in `src/`.
 
 The `en.ts` file header promised that OHADA and CIMA were "spelled out on first
 use, applied consistently across every English string", which four bare acronyms
-introduced here made false. It now states where the expansion is used, which
-three surfaces are exempt for length, and **which seven English pages carry the
-bare acronyms without expanding them anywhere**. That last list was measured by
-grepping `dist/en`, after a first draft of the same comment claimed every page
-expanded them and turned out to be wrong on seven of thirteen.
+introduced here made false.
+
+**Two rewrites of that comment shipped false and `I18N-FIX-002` wrote the third.**
+This paragraph originally described the second one, which enumerated the pages
+that expand the acronyms and the pages that do not; both lists were wrong, and
+the review of round 1 established it. The current comment states the house form,
+the surfaces exempt for room, and the command that measures coverage. **It
+deliberately enumerates nothing**, because no build step reads a comment and an
+enumeration therefore decays unwatched. See D119.
 
 ## Three things a reader must not "fix"
 

diff --git a/.claude/personalities/REVIEWER.md b/.claude/personalities/REVIEWER.md
@@ -154,6 +154,10 @@ Write to `docs/reviews/<ID>-review.md`. The file ships **on the work item's bran
 
 If the file already exists from a previous round, **append** a new round section. Never overwrite. Never commit a review file on `main` or on `refonte-multipages`.
 
+**The filename always derives from the ID under review, and a `-FIX-` item opens its own file.** Rounds of one continuous thread therefore land in several files: `I18N-001`, `I18N-FIX-001` and `I18N-FIX-002` are one body of work and hold three. That is deliberate; the alternative asks every reviewer to guess which item a thread started from. See D121.
+
+**So when the item under review continues an earlier one, open the file with a `Continuity` line naming the previous rounds and their files, before the first round section.** It is the only thing standing between the next reader and the conclusion that no history exists. A reader who opens the file of a `-FIX-` item and finds nothing does not go looking; that is exactly what happened on round 1 of `I18N-FIX-001`. If the thread starts here, say so instead: one sentence, never a blank.
+
 ### Round format
 
 ```markdown

diff --git a/docs/reviews/I18N-FIX-001-review.md b/docs/reviews/I18N-FIX-001-review.md
@@ -1,5 +1,15 @@
 # I18N-FIX-001 - Revue
 
+**Continuite.** Ce fil compte des rondes anterieures, ecrites ailleurs. Voir
+`docs/reviews/I18N-001-review.md` : `## Round 1` porte sur l'item `I18N-001`
+(PR #25), `## Round 2` porte en realite sur `I18N-FIX-001` (PR #29). La ronde 1
+ci-dessous est donc chronologiquement la troisieme passe sur cette matiere. Les
+rondes suivantes de ce fil sont dans `docs/reviews/I18N-FIX-002-review.md`.
+
+Renvoi ajoute par `I18N-FIX-002`, qui a fait de cette ligne une obligation de
+procedure plutot qu'une politesse. Voir D121. Le texte de la ronde 1 n'est pas
+modifie : une revue est un enregistrement, elle s'annote et ne se reecrit pas.
+
 ## Round 1 - 2026-08-07
 **Verdict**: CHANGES REQUESTED
 

diff --git a/docs/work-items/SITE-FIX-009.md b/docs/work-items/SITE-FIX-009.md
@@ -3,8 +3,13 @@
 **Type** FIX | **Status** OPEN, not started | **Branch to create** `fix/review-shots-errortext`
 **Base** `refonte-multipages`
 
-**Decision** D075 in `docs/DECISIONS.md`. Raised as a blocker by round 2 of
+**Decision** D120 in `docs/DECISIONS.md`. Raised as a blocker by round 2 of
 `docs/reviews/I18N-001-review.md`, reproduced live during that round.
+
+This item cited D075 until `I18N-FIX-002`. D075 is the residual-string sweep: it
+names `SEO-FIX-001` and `SITE-FIX-007` as its two follow-ups and mentions neither
+`bin/review_shots` nor `errorText`. A reader following that citation landed on a
+decision unrelated to the tooling change it authorised. D120 is the clean row.
 
 ## The defect
 
